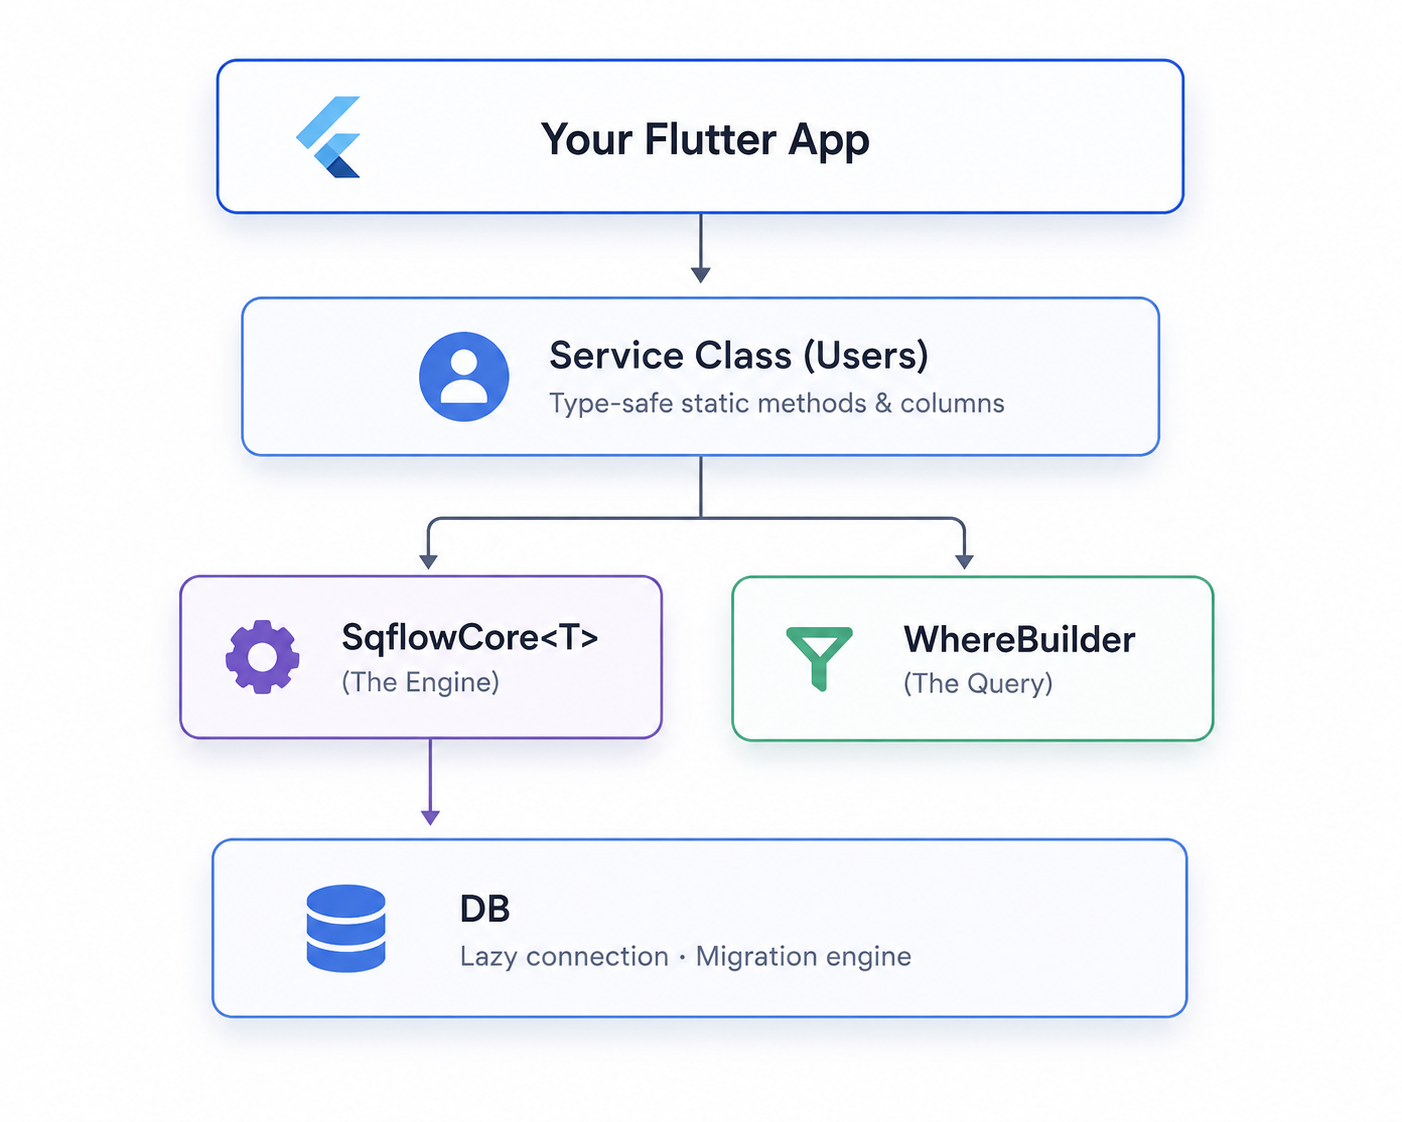
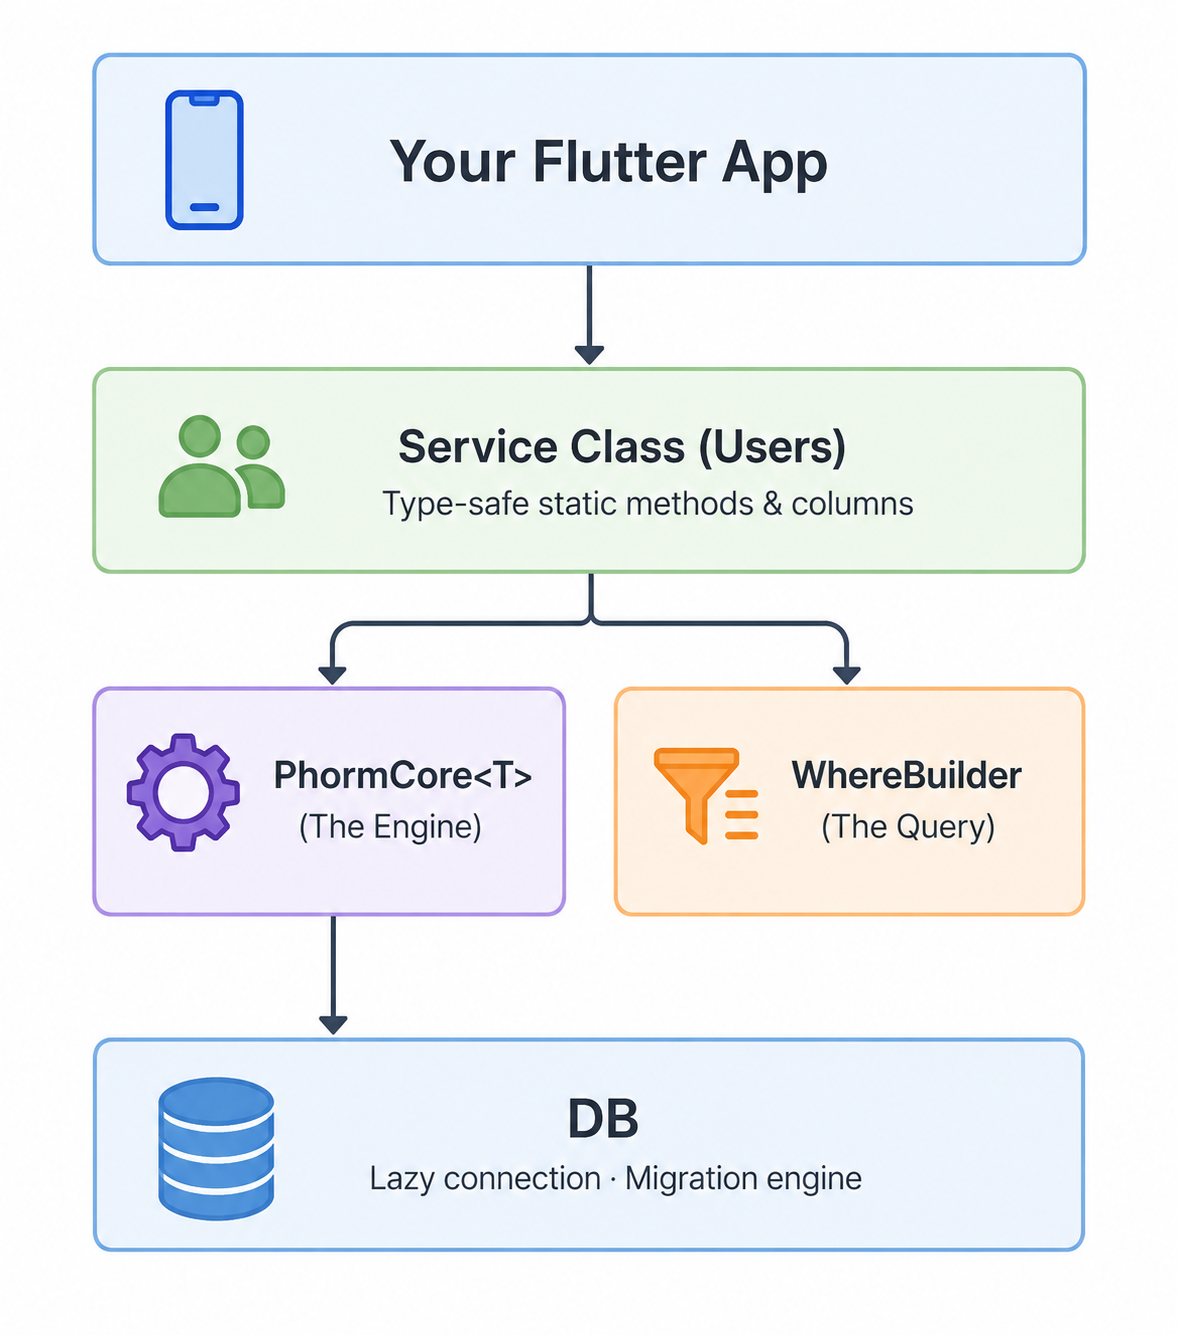
chore: sync dependencies and update node_modules structure

diff --git a/phorm/README.md b/phorm/README.md
@@ -1,0 +1,114 @@
+# PHORM Core 🚀
+
+[![Dart](https://img.shields.io/badge/Dart-3.0%2B-blue)](https://dart.dev/)
+[![License: Apache 2.0](https://img.shields.io/badge/License-Apache%202.0-blue.svg)](https://opensource.org/licenses/Apache-2.0)
+
+**`phorm`** is the core runtime engine of **PHORM** (Predictable Harmonious ORM) — a lightweight, type-safe, and driver-agnostic ORM for Dart and Flutter. 
+
+It defines the unified interface for queries, transactions, soft deletes, and complex parent-child relationships, delegating the low-level database execution to specific driver packages (such as `phorm_sqlite`).
+
+---
+
+## 📦 Modular Architecture
+
+PHORM is split into focused packages to keep your production apps lightweight:
+
+1. **`phorm`** (This Package) — **The core runtime engine**. Handles CRUD APIs, query assembly (`WhereBuilder`, `SortBuilder`), paranoid soft deletes, relationships, and transaction wrappers.
+2. **`phorm_annotations`** — Database-independent annotations (`@Schema`, `@Column`, `@ID`) and logical type definitions.
+3. **`phorm_generator`** — Code generator (`build_runner`) that automates type-safe model mixins, JSON builders, and runtime table configurations.
+4. **`phorm_sqlite`** — **The SQLite driver**. Implements connection pool management, background isolates (Native), WebAssembly persistence (Web), and database migrations.
+
+---
+
+## ⚡ Key Core Features
+
+- **🔌 Pluggable Dialect Architecture** — Write code once. The core uses a flexible `SqlDialect` interface to compile SQL parameters, escape identifiers, and structure queries. The same models and service APIs work across SQLite, and can expand to PostgreSQL or MySQL in the future.
+- **📊 Single-Query JSON Aggregation** — Eager load complex parent-child relation trees (e.g., `User` ➔ `Posts` ➔ `Comments` ➔ `Author`) in **exactly one highly-optimized SQL query** using database-native JSON capabilities, resolving the notorious N+1 query problem with ease.
+- **🛡️ Type-Safe Querying** — Generate strongly-typed column accessors. Write compile-time safe queries without raw maps or magical string keys.
+- **🗑️ Paranoid Soft Deletes** — Seamless, built-in soft delete support. Query filters exclude soft-deleted records by default, with complete `restore()` and force delete capabilities.
+
+---
+
+## 🚀 Usage Example
+
+### 1. Define Your Model (in `user.dart`)
+
+Use `phorm_annotations` to define the database entity structure:
+
+```dart
+import 'package:phorm/phorm.dart';
+
+part 'user.sql.g.dart';
+
+@Schema(tableName: 'users', paranoid: true)
+class User extends Model with _$PhormUserMixin {
+  @ID()
+  final String id;
+
+  @Column()
+  final String name;
+
+  @Column()
+  final int age;
+
+  User({required this.id, required this.name, required this.age});
+
+  factory User.fromJson(Map<String, dynamic> json) => _$PhormUserFromJson(json);
+}
+```
+
+### 2. Run the Query (Driver Agnostic)
+
+Once compiled via `build_runner`, you interact with your database using generated, fluent service APIs:
+
+```dart
+import 'package:phorm_sqlite/phorm_sqlite.dart'; // Import specific execution driver
+
+// Initialize your database (managed by phorm_sqlite)
+final db = DB.autoVersion(
+  databaseName: 'app.db',
+  tables: [usersTable],
+);
+
+// Resolve your type-safe CRUD service
+final userService = db.service<User>();
+
+// 1. Insert a record
+await userService.insert(User(id: 'u1', name: 'Alice', age: 24));
+
+// 2. Complex Fluent Query
+final activeAdults = await userService.query
+    .where(Users.age.gt(18))
+    .where(Users.name.like('A%'))
+    .get();
+
+// 3. Eager load relationships in a single query
+final usersWithPosts = await userService.query
+    .include(['posts', 'profile'])
+    .get();
+```
+
+---
+
+## 🛠️ Pluggable Query Builder Highlights
+
+The `WhereBuilder` matches SQL capabilities with Dart's type-safety:
+
+```dart
+Users.where(Users.age.between(18, 65))
+     .where(Users.status.inList(['active', 'pending']))
+     .where(Users.name.like('%Smith%'))
+     .get();
+```
+
+All filters support operator overloading and logical groups:
+
+```dart
+Users.where(Users.age.gt(30) & (Users.role.eq('admin') | Users.role.eq('editor'))).get();
+```
+
+---
+
+## 📄 License
+
+Apache 2.0 License.

diff --git a/docs/01-overview.md b/docs/01-overview.md
@@ -35,60 +35,9 @@ Most apps need the same patterns: "When was this created?", "Don't actually dele
 
 ## Architecture
 
-```mermaid
-graph TD
-    %% Styles and colors
-    classDef dev fill:#e1f5fe,stroke:#03a9f4,stroke-width:2px,color:#01579b;
-    classDef gen fill:#e8f5e9,stroke:#4caf50,stroke-width:2px,color:#1b5e20;
-    classDef core fill:#fff3e0,stroke:#ff9800,stroke-width:2px,color:#e65100;
-    classDef driver fill:#f3e5f5,stroke:#9c27b0,stroke-width:2px,color:#4a148c;
-    classDef db fill:#ffebee,stroke:#f44336,stroke-width:2px,color:#b71c1c;
-
-    subgraph "1. Descriptions of Models (Developer)"
-        Model["@Schema Class User<br/>(Defines fields and relationships HasMany/BelongsTo)"]:::dev
-    end
-
-    subgraph "2. Code Generation (phorm_generator)"
-        Generator["build_runner"]:::gen
-        Mixin["_$PhormUserMixin<br/>(toJson, copyWith methods)"]:::gen
-        Service["class Users (Service)<br/>(Typed columns and CRUD API)"]:::gen
-
-        Model -->|Static analysis| Generator
-        Generator --> Mixin
-        Generator --> Service
-    end
-
-    subgraph "3. Building a Request (phorm)"
-        AppCall["Users.where(Users.age.gt(18))<br/>.include([Includable.model<Post>()])<br/>.get()"]:::dev
-        QueryBuilder["WhereBuilder & Include Resolver<br/>(Linking tables by foreign keys)"]:::core
-        Dialect["SqlDialect (sqlite/postgres)<br/>(Building into Single SQL with JSON Aggregation)"]:::core
-
-        Service -->|Calling from application| AppCall
-        AppCall --> QueryBuilder
-        QueryBuilder --> Dialect
-    end
-
-    subgraph "4. Executing a Query (phorm_sqlite)"
-        Driver["Database Connection Manager<br/>(Connection pool management)"]:::driver
-        Isolate["Background Isolate / Web WASM<br/>(Execution in a separate thread without UI freezes)"]:::driver
-        SQLite[("Database SQLite")]:::db
-
-        Dialect -->|Compiled SQL + parameters| Driver
-        Driver --> Isolate
-        Isolate -->|Execute a query| SQLite
-    end
-
-    subgraph "5. Result and Mapping"
-        RawResult["Single Nested JSON Result<br/>(Parent and child data in one response!)"]:::db
-        Parser["JSON Parser & Model Factory<br/>(Fast model assembly from JSON)"]:::core
-        AppModels["List of Dart models<br/>List<User>"]:::dev
-
-        SQLite -->|Returns| RawResult
-        RawResult --> Parser
-        Mixin -.->|Provides JSON factory| Parser
-        Parser --> AppModels
-    end
-```
+<p align="center">
+  <img src="../assets/diagrams/diagram_6.png" alt="Phorm Architecture" />
+</p>
 
 ---
 
@@ -122,7 +71,6 @@ When a new driver is introduced, your declarative schemas `@Schema(...)` and cod
 > [!NOTE]
 > **A Note on DDL Schemas:**
 > While your Dart models and generated database services remain identical and fully database-agnostic at runtime, the DDL table schema automatically emitted by the `phorm_generator` currently targets SQLite-specific constructs (such as mapped types and SQLite trigger syntax for timestamps). For other databases, manual schema definitions or custom migration scripts should be used.
-
 
 ---
 

diff --git a/phorm_annotations/CHANGELOG.md b/phorm_annotations/CHANGELOG.md
@@ -1,40 +1,12 @@
 # Changelog
 
-All notable changes for the phorm_annotations package.
+## 1.0.0
 
-## 1.4.0 — 2026-05-14
-
-- **`Factory<T>`**: Added abstract `Factory<T extends Model>` interface with `create()` and `createMany(int count)` methods.
-- **`Seeder`**: Added abstract `Seeder` class with `run(DB db)` method signature (in `seeder.dart` under `phorm_core`).
-- **Validators**: Added `json_validators.dart` with `NotEmptyValidator`, `EmailValidator`, `RangeValidator`, `MinLengthValidator`, `MaxLengthValidator`.
-
-## 1.3.0 — 2026-05-08
-
-- **`ManyToMany`**: Added `ManyToMany` relationship annotation with `pivotTable`, `foreignKey`, `relatedKey`, and `relatedLocalKey` parameters.
-- **`ReferentialAction`**: Added type-safe `ReferentialAction` enum (`cascade`, `setNull`, `setDefault`, `restrict`, `noAction`) for relationship actions.
-
-## 1.2.0 — 2026-05-01
-
-- **`ValueConverter<D, S>`**: Added `ValueConverter` abstract class for custom type transformations between Dart types and SQLite types.
-- **`Collate`**: Added `Collate` constants (`noCase`, `binary`) for SQLite collation support.
-- **`result_data.dart`**: Added `Result<T>` and `ResultWithCount<T>` typed result wrappers.
-- **`PhormLogger`**: Added `PhormLogger` interface with `PhormConsoleLogger` default implementation.
-
-## 1.1.0 — 2026-04-28
-
-- **Relationship annotations**: Added `HasMany`, `HasOne`, `BelongsTo`, `Join`, and relationship base class.
-- **`Includable`**: Added `Includable` class for eager loading API (`Includable.model<T>()`, `Includable.table(name)`).
-- **`Attributes`**: Added `Attributes.include([...])` and `Attributes.exclude([...])` for column selection.
-- **`@Schema` parameters**: Added `useValidator`, `useToString`, `useCopyWith` options.
-
-## 1.0.0 — 2026-01-23
-
-- First public release.
-- `@Schema`, `@Column`, `@ID` annotations for table definition.
-- `Model` base class with `toJson()` abstract method.
-- `Table<T>` runtime configuration class.
-- `TableMigration`, `MigrationBuilder` for schema migrations.
-- `PhormDatabaseExecutor` interface.
-- `CheckValidator`, `ContainsValidator`, `RegexValidator` for SQL CHECK constraints.
-- `SqlTypes` constants for SQLite type names.
-- `IndexProps` for table index definitions.
+- First stable release.
+- Table schema annotations: `@Schema`, `@Column`, `@ID`.
+- Database relationship annotations: `@HasMany`, `@HasOne`, `@BelongsTo`, `@ManyToMany`, and `@Join`.
+- Support for customizable naming strategies, indexes, and custom JSON serialization options.
+- Declarative CHECK validators (e.g. `NotEmptyValidator`, `EmailValidator`, `RangeValidator`).
+- Support for database-independent logical types mapping.
+- Added `ValueConverter<D, S>` for custom Dart-to-SQL type mappings.
+- Added test and seed utilities (`Factory<T>` and `Seeder` interfaces).

diff --git a/phorm_generator/CHANGELOG.md b/phorm_generator/CHANGELOG.md
@@ -1,17 +1,9 @@
 # Changelog
 
-## [1.1.0] - 2026-04-28
-
-- Added support for ORM Relationships: `@HasMany`, `@HasOne`, `@BelongsTo`, and `@Join`.
-- Enhanced `SqliteSchemaGenerator` to extract relationship metadata from both `@Schema` and class fields.
-- Merged redundant generators into a single, optimized `SqliteSchemaGenerator`.
-- Improved column naming strategy integration for complex schemas.
-- Added automatic registration of relationships in the generated `Table` classes.
-
-## [1.0.0] - 2026-01-28
+## 1.0.0
 
 - First stable release.
-- SQL schema generation for Flutter based on annotations.
-- Integration with `build_runner` and `source_gen` for automatic code generation.
-- Support for the `phorm_annotations` package.
-- Automatic formatting of generated Dart code using `dart_style`.
+- Automatically generates optimized SQL schemas (tables, indices, foreign keys) and DDL from annotations.
+- Produces type-safe relational model mixins (`_$PhormModelMixin`) and pluralized service accessors.
+- Provides highly optimized `_$PhormModelFromJson` methods for fast JSON mapping.
+- Integrates with `build_runner` and `source_gen` for hot-reloadable, automated code generation.

diff --git a/phorm_sqlite/CHANGELOG.md b/phorm_sqlite/CHANGELOG.md
@@ -1,0 +1,12 @@
+# Changelog
+
+## 1.0.0
+
+- First stable release of the PHORM SQLite Driver.
+- Implements `phorm` runtime database execution layer on top of `sqlite3`.
+- Dedicated multi-thread background isolate executor ensuring synchronous SQLite operations never block the main/UI thread.
+- Out-of-the-box Flutter Web support via WebAssembly (`sqlite3_web`) and persistent IndexedDB file system.
+- Transparent database versioning and smart idempotent migration lifecycle tracking via the `__phorm_migrations` table.
+- High-performance slow query tracer and console loggers.
+- Built-in SQLCipher encryption support for Native (iOS, Android, Desktop) platforms.
+- Native Dart `SqlFunction` registration (including regexp support).

diff --git a/phorm/CHANGELOG.md b/phorm/CHANGELOG.md
@@ -1,0 +1,10 @@
+# Changelog
+
+## 1.0.0
+
+- First stable release of the PHORM Core.
+- Driver-agnostic runtime query builder (`WhereBuilder`, `SortBuilder`).
+- Generic CRUD service (`PhormCore<T extends Model>`) with fire-and-forget callback options.
+- Seamless relational eager loading through Single-Query JSON Aggregation.
+- Complete support for soft deletes (Paranoid mode) and automatic date timestamps.
+- Native transaction wrapper and batch operation helpers (`insertBatch`, `updateBatch`, `deleteBatch`, etc.).

diff --git a/phorm_sqlite/README.md b/phorm_sqlite/README.md
@@ -5,7 +5,7 @@
 
 `phorm_sqlite` is the official SQLite driver and connection manager implementation for the **PHORM ORM**.
 
-It implements the database interfaces from `phorm_core` (`PhormDatabase`, `DatabaseExecutor`) and handles connection lifecycles, background isolate execution, custom SQL functions, and smart schema migrations.
+It implements the database interfaces from `phorm` (`PhormDatabase`, `DatabaseExecutor`) and handles connection lifecycles, background isolate execution, custom SQL functions, and smart schema migrations.
 
 ---
 
@@ -14,7 +14,7 @@ It implements the database interfaces from `phorm_core` (`PhormDatabase`, `Datab
 The PHORM ORM is split into modular packages:
 
 1. **`phorm_annotations`** — Database-agnostic annotations (`@Schema`, `@Column`, `@ID`) and logical type definitions.
-2. **`phorm_core`** — Driver-agnostic runtime engine containing CRUD APIs, `WhereBuilder` query builder, soft deletes, and eager loading via JSON Aggregation.
+2. **`phorm`** — Driver-agnostic runtime engine containing CRUD APIs, `WhereBuilder` query builder, soft deletes, and eager loading via JSON Aggregation.
 3. **`phorm_generator`** — Code generator (`build_runner`) that automates mixin, JSON, and runtime table configuration.
 4. **`phorm_sqlite`** (This Package) — **The SQLite driver**. Implements connection pooling, background isolates (Native), WebAssembly persistence (Web), and smart migrations.
 
@@ -42,7 +42,7 @@ Add `phorm_sqlite` to your `pubspec.yaml`:
 ```yaml
 dependencies:
   phorm_sqlite: ^latest
-  # phorm_core and phorm_annotations are pulled in automatically
+  # phorm and phorm_annotations are pulled in automatically
 ```
 
 ---
@@ -120,7 +120,7 @@ In standard Flutter database setups, queries and subsequent data mapping (`fromJ
 `phorm_sqlite` resolves this by using an **Isolate-based proxy router**:
 
 <p>
-<image src="./assets/illustration_1.png" alt="Isolate Router" />
+<image src="../assets/illustration_1.png" alt="Isolate Router" />
 </p>
 
 1. **Native Platforms**: Spawns a background `Isolate` that owns the synchronous `sqlite3` connection. Commands are sent across ports, executing database writes/reads safely off the UI thread.

diff --git a/docs/05-relationships.md b/docs/05-relationships.md
@@ -92,6 +92,10 @@ HasMany(
 
 PHORM uses **single-query JSON aggregation** to avoid N+1 problems:
 
+<p align="center">
+  <img src="../assets/diagrams/diagram_2.png" alt="Phorm Architecture" />
+</p>
+
 ### HasMany (JSON aggregation)
 
 ```sql

diff --git a/docs/06-db-and-migrations.md b/docs/06-db-and-migrations.md
@@ -64,6 +64,10 @@ During initialization, the `DB` class:
 2. Creates all registered tables from their `schema` strings.
 3. Applies any pending migrations.
 
+<p align="center">
+  <img src="../assets/diagrams/diagram_3.png" alt="Phorm Architecture" />
+</p>
+
 ---
 
 ## Migration System

diff --git a/docs/08-soft-deletes.md b/docs/08-soft-deletes.md
@@ -20,6 +20,10 @@ The generator adds the `deleted_at TEXT` column to the SQL schema and injects a 
 
 ## How It Works
 
+<p align="center">
+  <img src="../assets/diagrams/diagram_4.png" alt="Phorm Architecture" />
+</p>
+
 | Operation                    | `paranoid: false`              | `paranoid: true`                            |
 | :--------------------------- | :----------------------------- | :------------------------------------------ |
 | `delete(id)`                 | `DELETE FROM ... WHERE id = ?` | `UPDATE ... SET deleted_at = NOW()`         |

diff --git a/docs/14-reactivity.md b/docs/14-reactivity.md
@@ -14,6 +14,10 @@ Unlike traditional ORMs that require manual hooks, observers, or trigger methods
 2. **Isolate-Safe Dispatching**: For client-side drivers (like SQLite), these events are captured in the background database isolate and synchronously sent to the main isolate via `SendPort`.
 3. **Transaction Buffering**: If writes occur within a transaction, notifications are buffered at the database level and are only emitted once the transaction **commits successfully**. If the transaction rolls back, all buffered notifications are discarded. This prevents redundant notifications and eliminates UI flickering during bulk operations.
 
+<p align="center">
+  <img src="../assets/diagrams/diagram_5.png" alt="Phorm Architecture" />
+</p>
+
 ---
 
 ## Reactive APIs

diff --git a/phorm_generator/README.md b/phorm_generator/README.md
@@ -10,7 +10,7 @@ The magic behind PHORM. This package uses `build_runner` to turn your Dart model
 - **Model Mixins**: Generates `_$UserMixin` with automatic `toJson`, `toString`, `copyWith`, and relationship getters.
 - **Pluralized Services**: Generates the `Users` service class for fluent, static-method-based interaction.
 - **JSON Helpers**: Provides optimized `_$UserFromJson` implementations.
-- **Runtime Metadata**: Produces the `Table` configuration needed for `PhormCore`.
+- **Runtime Metadata**: Produces the `Table` configuration needed for `PHORM`.
 
 ---
 
@@ -60,7 +60,7 @@ dart run build_runner watch --delete-conflicting-outputs
 ## Learn More
 
 - For annotation details, see [phorm_annotations](../phorm_annotations/README.md).
-- For runtime query engine details, see [phorm_core](../phorm_core/README.md).
+- For runtime query engine details, see [phorm](../phorm/README.md).
 - For the connection manager and SQLite driver implementation, see [phorm_sqlite](../phorm_sqlite/README.md).
 
 ---